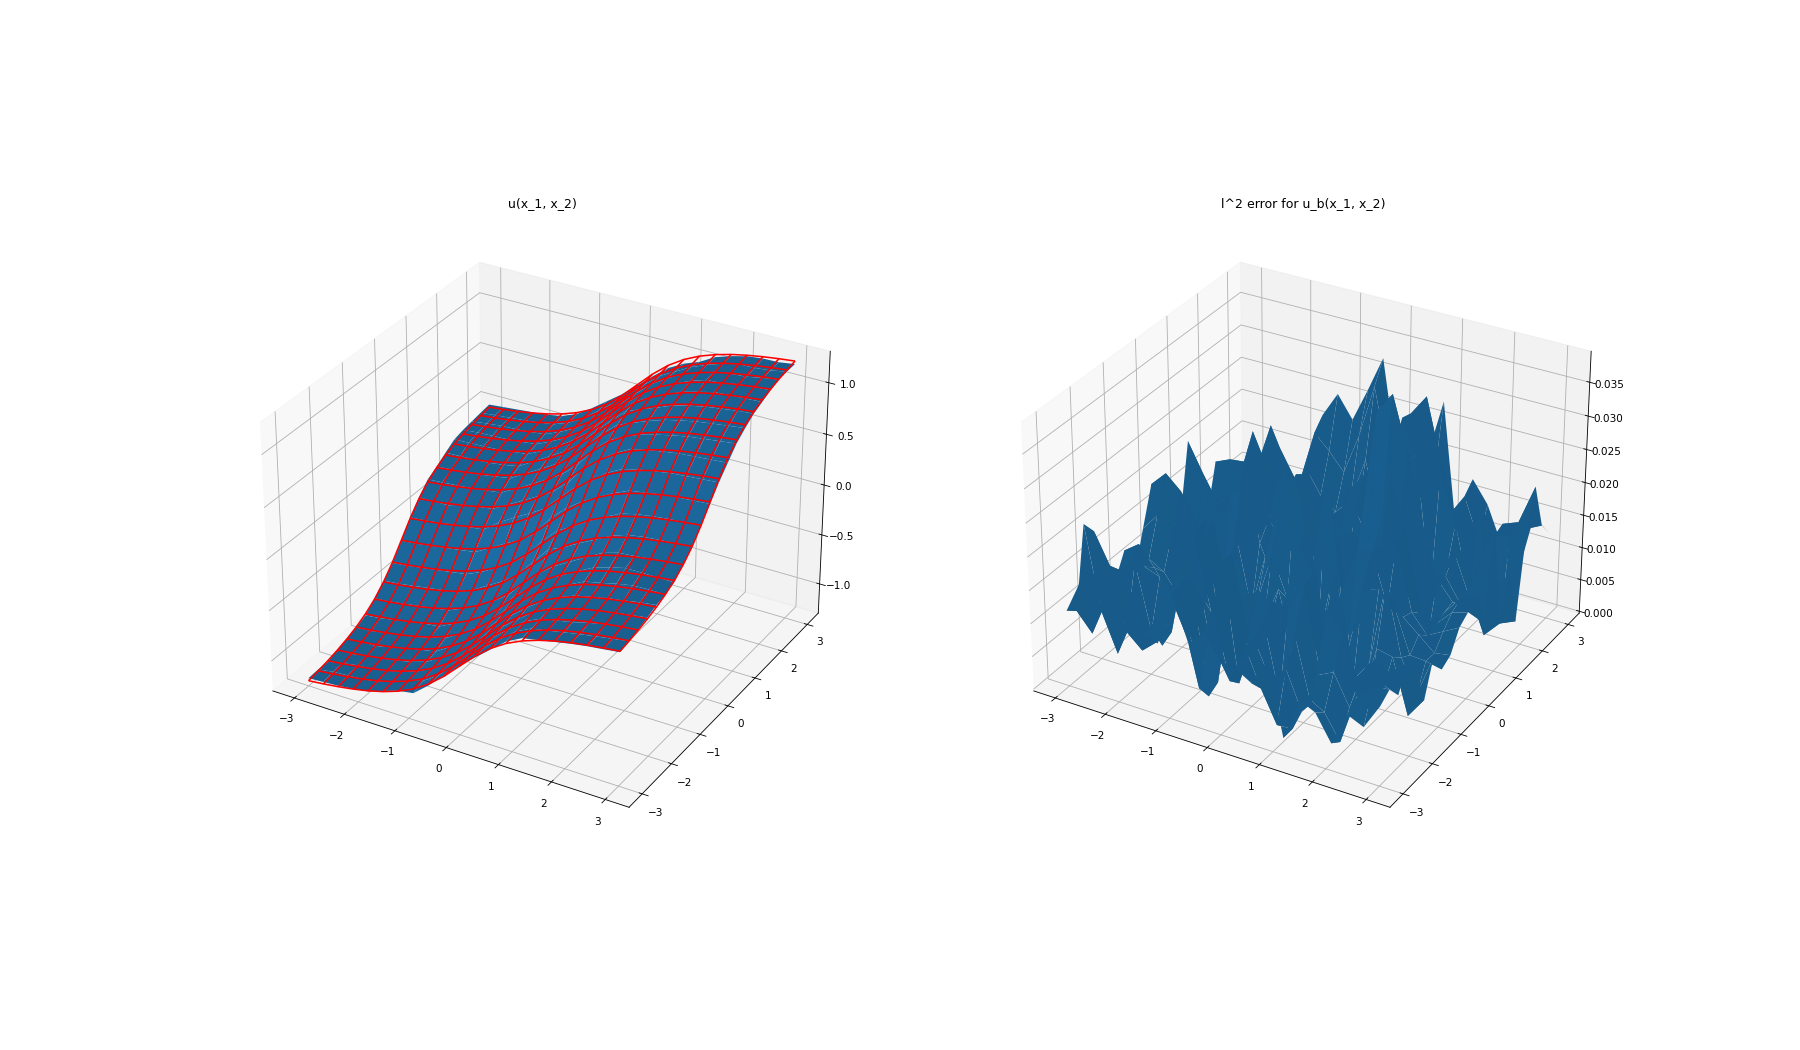
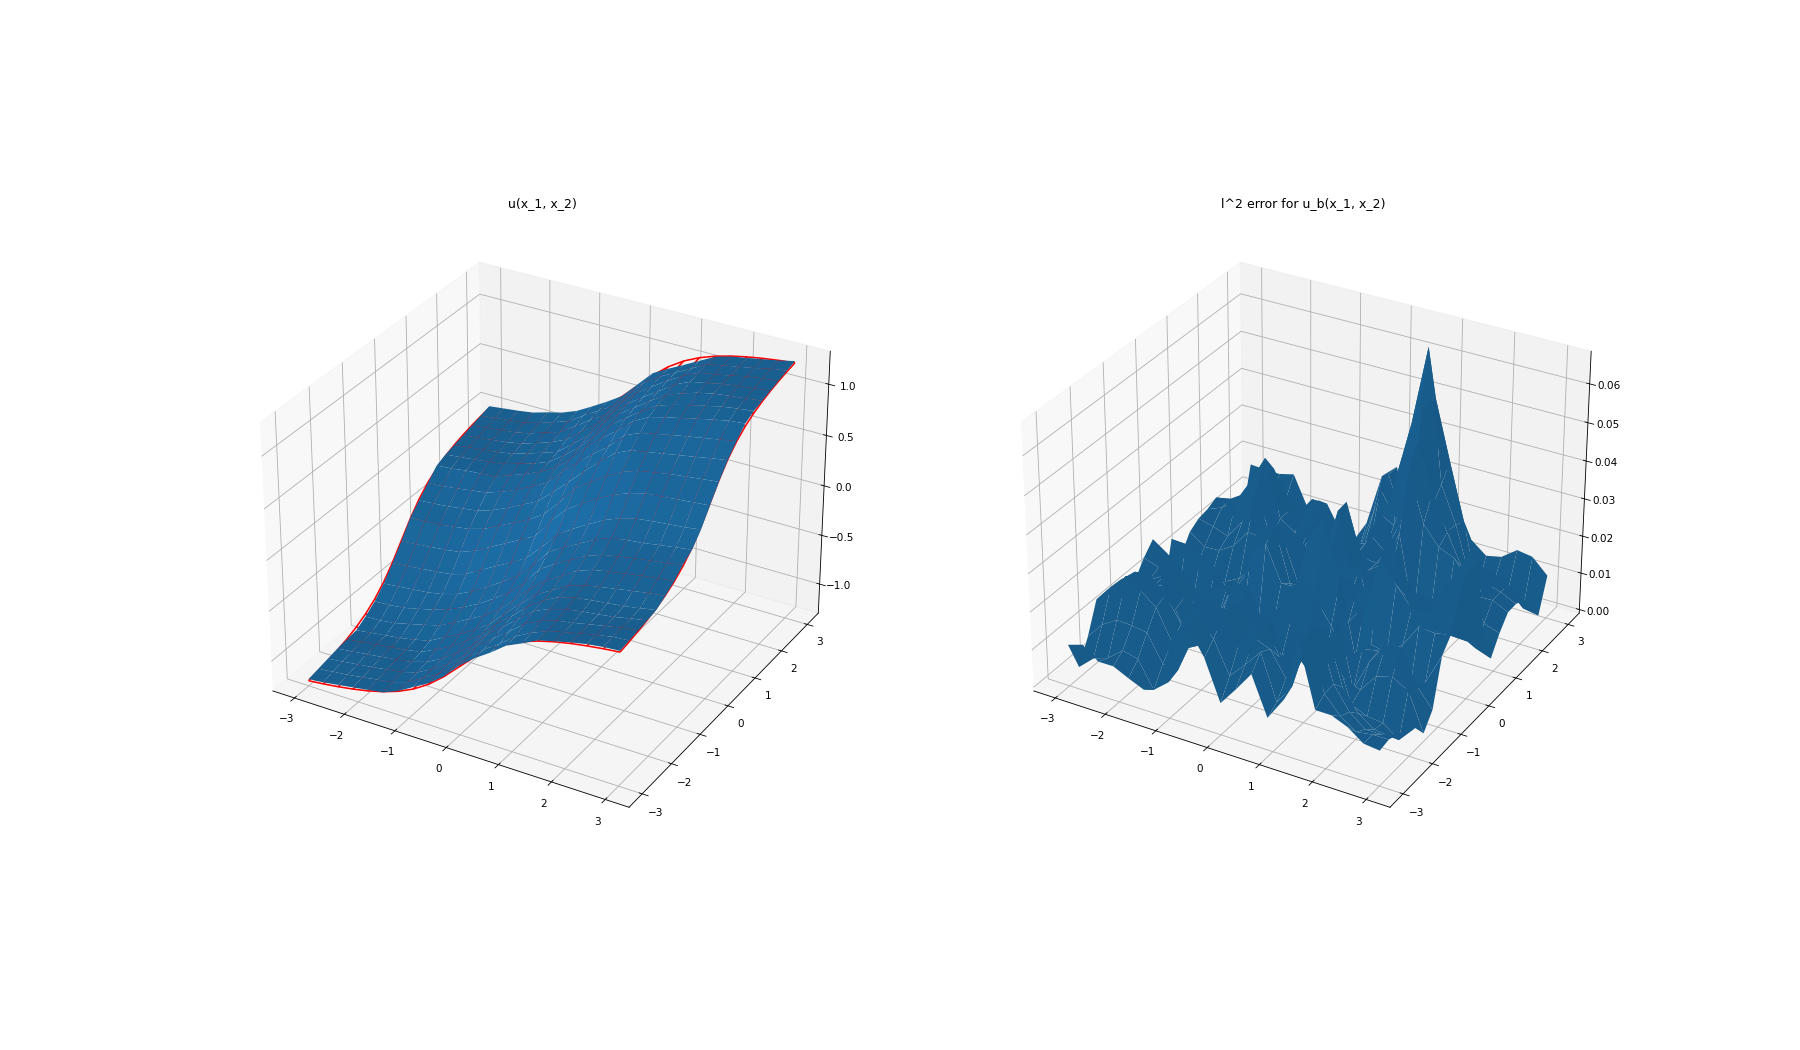
readme.md and requirements.txt

Changed region(s): [[0.5911, 0.3352, 0.9022, 0.7314], [0.1867, 0.3352, 0.4667, 0.6705], [0.6844, 0.5486, 0.7156, 0.579]]

diff --git a/1d_generalSDE.py b/1d_generalSDE.py
@@ -1,5 +1,4 @@
 import numpy as np
-import scipy.stats as stats
 import matplotlib.pyplot as plt
 from numba import njit
 import time
@@ -10,11 +9,13 @@ epsilon = 0.9
 
 @njit(fastmath=True)
 def sig(x):
-    return np.ones_like(x)#1.0 + epsilon * np.tanh(x)
+    #return np.ones_like(x)
+    return 1.0 + epsilon * np.tanh(x)
 
 @njit(fastmath=True)
 def delsig(x):
-    return np.zeros_like(x)#epsilon * (1.0 - np.tanh(x)**2)
+    #return np.zeros_like(x)
+    return epsilon * (1.0 - np.tanh(x)**2)
 
 # Function to evolve all paths on a fixed time grid until their exponential clocks E_i are reached.
 @njit(fastmath=True)

diff --git a/NN_Picard_mult.py b/NN_Picard_mult.py
@@ -3,7 +3,8 @@ import scipy.stats as stats
 import matplotlib.pyplot as plt
 import pickle as pickle
 import tensorflow as tf
-import tensorflow.keras.layers as layers
+from tensorflow import keras
+layers = keras.layers
 import time
 import logging
 from datetime import datetime
@@ -358,7 +359,7 @@ if d == 1:
     ax2.set_xlabel("$x$")
     ax2.set_ylabel(r"$\bar{u(x)}$")
     ax2.legend(loc='upper left')
-
+    plt.show()
     fig.savefig('Numerical_experiments/NN_Picard_dim1/Pic_iter.png', bbox_inches='tight')
 
 

diff --git a/NN_direct_scheme.py b/NN_direct_scheme.py
@@ -1,11 +1,11 @@
 import numpy as np
-import scipy.stats as stats
 import matplotlib.pyplot as plt
 import pickle as pickle
 import tensorflow as tf
 #from absl import flags
 #from absl import logging as absl_logging
-import tensorflow.keras.layers as layers
+from tensorflow import keras
+layers = keras.layers
 import time
 import logging
 from datetime import datetime

diff --git a/vect_grid_scheme.py b/vect_grid_scheme.py
@@ -1,5 +1,4 @@
 import numpy as np
-import scipy.stats as stats
 import matplotlib.pyplot as plt
 from numba import jit
 from time import time

diff --git a/README.md b/README.md
@@ -1,0 +1,113 @@
+# Infinite horizon BSDEs
+
+## Mathematical setting
+
+This project proposed numerical solutions of infinite-horizon backward stochastic differential equations (BSDEs) for the following type:
+
+$$Y_t = Y_T + \int_t^T f(X_s, Y_s, Z_s) ds -\int_t^T Z_s d W_s, \qquad \forall 0\leqslant t\leqslant T < +\infty,$$
+
+where X is the solution of the following d-dimensional SDE:
+
+$$X_t = x + \int_0^t b(X_s) ds + \int_0^t \sigma(X_s) dW_s, \quad 0 \leq t, $$
+
+where $X$ and $W$ have the same dimension $d$. Under certain assumptions, this decoupled system of forward and backward SDEs is equivalent to the following system of elliptic partial differential equations (PDEs):
+
+$$ \mathcal L u(x) + f(x, u(x), \nabla_x u(x)\sigma(x)) = 0, \quad \forall x\in\mathbb R^d, $$
+where $\mathcal L$ is the generator of the semi-group associated with the above SDE for $X$.
+
+We propose three algorithms based on two main approaches-
+ 1. Starting from an initial guess for $u(x)$ and $\bar{u}(x)$ $\left(:=\nabla_x u(x)\sigma(x) \right)$, we propose an iterative procedure by repeatedly applying an operator which is a contraction under some additional conditions.
+ 2. The second approach, based on neural networks (NNs), is a direct approach which bypasses the need for contraction.
+
+ For the first approach, we have the following files:
+
+1. `vect_grid_scheme.py` — vectorized space grid-based Picard iterations (Brownian forward process).
+2. `1d_generalSDE.py` — grid-based Picard iterations where the forward process is a 1‑D SDE.
+3. `NN_Picard_mult.py` — Picard iterations with NNs replacing the spatial grid (suitable for higher d).
+   
+In addition, we have `NN_direct_scheme_2.py`, which implements the second approach based on the direct NN scheme that bypasses the contraction operator (direct solver).
+
+
+
+## Numerical Example
+
+
+We consider an infinite-horizon BSDE denoted by $(Y, Z)$ with X denoting the forward process (Brownian motion or SDE). We will only consider the case when $Y$ is one-dimensional, i.e. a single elliptic PDE. The BSDE has generator f and we seek the stationary pair $(u, \bar u)$ that satisfy a fixed-point formulation similar to the Feynman–Kac representation - 
+
+$$ u^{i+1} = \Phi(u^i, \bar u^i)(x) = \mathbb E\Big[(f(X_E, u(X_E), \bar u(X_E)) + a u(X_E))\ w(E)\Big], $$
+
+$$ \bar{u}^{i+1} = \bar \Phi(u^i, \bar u^i)(x) = \mathbb E\Big[\big(f(X_{\bar{E}}, u(X_{\bar{E}}), \bar u(X_{\bar{E}})) + b u(X_{\bar{E}})\big) \ U_{\bar{E}}^x \ \bar{w}({\bar{E}})\Big], $$
+
+where $w$ and $\bar{w}$ are some exponential functions and $U_t^x$ are the Malliavin weights. For simplicity and without loss of generality, we consider the drift of the forward SDE to be zero,
+$$dX^x_t = \sigma(X^x_t) dW_t, \quad X^x_0 = x,$$
+where we consider the following two cases for $\sigma(x)$:
+1. $\sigma(x) = 1$, meaning that $X^x_t = x + W_t$, eliminating the need to simulate paths of the SDE. We consider this setting for `vect_grid_scheme.py`, `NN_Picard_mult.py` and `NN_direct_scheme_2.py`.
+2. $\sigma(x) = 1 + \varepsilon \tanh(x)$ for instance, where $\varepsilon=0.9$. We use this setting for `1d_generalSDE.py`.
+
+Next, for the generator and the analytical solutions for $u$ and $\bar u$, we take the following,
+
+$$f(x, y, z) = f_0(x,y,z) - \dfrac{1}{2}Tr\Big((\nabla^2 u(x))\sigma \sigma^\top\Big) - f_0(x, u(x), \nabla_x u(x)\sigma(x)),$$
+where
+$$f_0(x, y, z) = -cy + \cos{(y+|x|)} + K_z \sin(|z|)$$
+
+$$u(x) = \frac{1}{d} \sum_{i=1}^d \tan^{-1}(x_i)$$
+$$\bar{u}(x) = \dfrac{1}{d}\left[\dfrac{1}{1+x_i^2} \right]_{i\in\{1, \dots, d\}} \sigma(x)$$
+
+The code implements Monte‑Carlo estimation of expectations above and interpolation (grid methods) or direct NN learning of the operators.
+
+
+## Dependencies (suggested conda env on Windows)
+
+Windows / PowerShell commands:
+
+conda create -n infBSDE python=3.10 numpy scipy matplotlib numba scikit-learn -y
+conda activate infBSDE
+pip install tensorflow==2.14  # or the TF version you use
+or install tensorflow via conda-forge if preferred:
+conda install -c conda-forge tensorflow
+then:
+pip install tqdm
+
+Exact versions used during development:
+- numpy, scipy, matplotlib, numba, tensorflow (2.x)
+
+---
+
+## Quick start (examples)
+
+Run grid Picard (vectorized):
+- python vect_grid_scheme.py
+
+Run 1‑D SDE + Malliavin weights:
+- python 1d_generalSDE.py
+
+Run NN Picard:
+- python NN_Picard_mult.py
+
+Run NN direct scheme:
+- python NN_second_scheme_2.py
+
+Adjust parameters (M, NbP/NbP, dt, Ntilde, epochs, batch_size, learning rate) at top of each script.
+
+---
+
+## Where to look in code
+
+- vect_grid_scheme.py: `GridScheme.phi`, `GridScheme.interpol`, `PicIter`.
+- 1d_generalSDE.py: `_sde_kernel` (numba), `GridScheme.phi`, `GridScheme.PicIter`.
+- NN_Picard_mult.py: `label`, `phi`, `model_init`, `NN` network definitions and Picard loop.
+- NN_second_scheme_2.py: `label`, `phi`, `NN_model` class with custom training loop.
+
+---
+
+## Notes on extending / experiments
+
+- Replace `an_u`/`an_ub` and `f_0` with other models to test other analytic examples.
+- For higher-d NN experiments increase network width/depth, tune M (MC samples), and use batch normalization / learning‑rate schedules.
+- For SDE forward processes in >1D, extend `_sde_kernel` and Malliavin-weight computations carefully (numba/jitting advisable).
+
+---
+
+## License / contact
+
+This repository is provided as research code. No license file included. For questions, open an issue in
